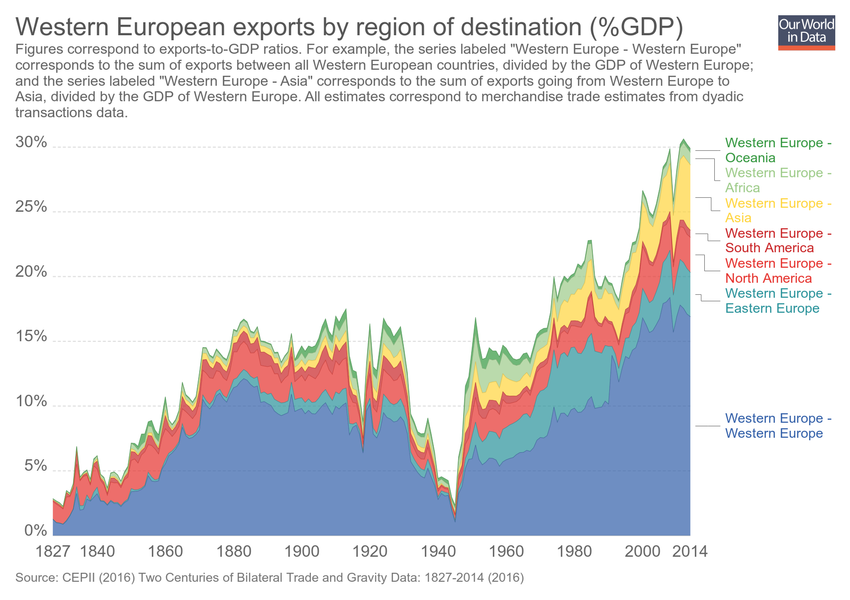
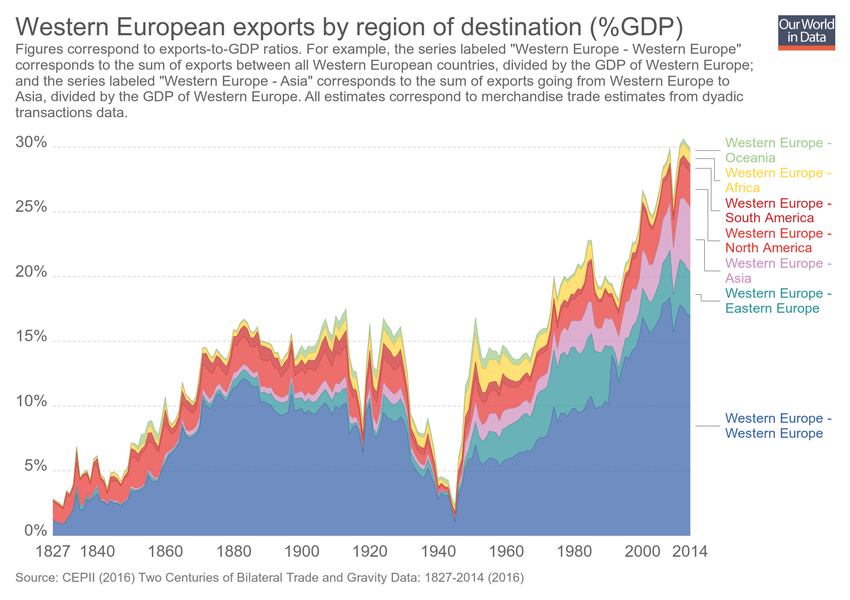
Updating chart exports-from-western-europe-to-other-regions

diff --git a/grapher/exports-from-western-europe-to-other-regions.html b/grapher/exports-from-western-europe-to-other-regions.html
@@ -1,4 +1,4 @@
-<!doctype html><html><head><meta name="viewport" content="width=device-width, initial-scale=1" /><title>Western European exports by region of destination (%GDP) - Our World in Data</title><meta name="description" content="Figures correspond to exports-to-GDP ratios.  For example, the series labeled &quot;Western Europe - Western Europe&quot; corresponds to the sum of exports between all Western European countries, divided by the GDP of Western Europe; and the series labeled &quot;Western Europe - Asia&quot; corresponds to the sum of exports going from Western Europe to Asia, divided by the GDP of Western Europe. All estimates correspond to merchandise trade estimates from dyadic transactions data. " /><link rel="canonical" href="https://ourworldindata.org/grapher/exports-from-western-europe-to-other-regions" /><meta property="fb:app_id" content="1149943818390250" /><meta property="og:url" content="https://ourworldindata.org/grapher/exports-from-western-europe-to-other-regions" /><meta property="og:title" content="Western European exports by region of destination (%GDP)" /><meta property="og:description" content="Figures correspond to exports-to-GDP ratios.  For example, the series labeled &quot;Western Europe - Western Europe&quot; corresponds to the sum of exports between all Western European countries, divided by the GDP of Western Europe; and the series labeled &quot;Western Europe - Asia&quot; corresponds to the sum of exports going from Western Europe to Asia, divided by the GDP of Western Europe. All estimates correspond to merchandise trade estimates from dyadic transactions data. " /><meta property="og:image" content="https://ourworldindata.org/grapher/exports/exports-from-western-europe-to-other-regions.png?v=11" /><meta property="og:image:width" content="850" /><meta property="og:image:height" content="600" /><meta property="og:site_name" content="Our World in Data" /><meta name="twitter:card" content="summary_large_image" /><meta name="twitter:site" content="@OurWorldInData" /><meta name="twitter:creator" content="@OurWorldInData" /><meta name="twitter:title" content="Western European exports by region of destination (%GDP)" /><meta name="twitter:description" content="Figures correspond to exports-to-GDP ratios.  For example, the series labeled &quot;Western Europe - Western Europe&quot; corresponds to the sum of exports between all Western European countries, divided by the GDP of Western Europe; and the series labeled &quot;Western Europe - Asia&quot; corresponds to the sum of exports going from Western Europe to Asia, divided by the GDP of Western Europe. All estimates correspond to merchandise trade estimates from dyadic transactions data. " /><meta name="twitter:image" content="https://ourworldindata.org/grapher/exports/exports-from-western-europe-to-other-regions.png?v=11" /><style>
+<!doctype html><html><head><meta name="viewport" content="width=device-width, initial-scale=1" /><title>Western European exports by region of destination (%GDP) - Our World in Data</title><meta name="description" content="Figures correspond to exports-to-GDP ratios.  For example, the series labeled &quot;Western Europe - Western Europe&quot; corresponds to the sum of exports between all Western European countries, divided by the GDP of Western Europe; and the series labeled &quot;Western Europe - Asia&quot; corresponds to the sum of exports going from Western Europe to Asia, divided by the GDP of Western Europe. All estimates correspond to merchandise trade estimates from dyadic transactions data. " /><link rel="canonical" href="https://ourworldindata.org/grapher/exports-from-western-europe-to-other-regions" /><meta property="fb:app_id" content="1149943818390250" /><meta property="og:url" content="https://ourworldindata.org/grapher/exports-from-western-europe-to-other-regions" /><meta property="og:title" content="Western European exports by region of destination (%GDP)" /><meta property="og:description" content="Figures correspond to exports-to-GDP ratios.  For example, the series labeled &quot;Western Europe - Western Europe&quot; corresponds to the sum of exports between all Western European countries, divided by the GDP of Western Europe; and the series labeled &quot;Western Europe - Asia&quot; corresponds to the sum of exports going from Western Europe to Asia, divided by the GDP of Western Europe. All estimates correspond to merchandise trade estimates from dyadic transactions data. " /><meta property="og:image" content="https://ourworldindata.org/grapher/exports/exports-from-western-europe-to-other-regions.png?v=13" /><meta property="og:image:width" content="850" /><meta property="og:image:height" content="600" /><meta property="og:site_name" content="Our World in Data" /><meta name="twitter:card" content="summary_large_image" /><meta name="twitter:site" content="@OurWorldInData" /><meta name="twitter:creator" content="@OurWorldInData" /><meta name="twitter:title" content="Western European exports by region of destination (%GDP)" /><meta name="twitter:description" content="Figures correspond to exports-to-GDP ratios.  For example, the series labeled &quot;Western Europe - Western Europe&quot; corresponds to the sum of exports between all Western European countries, divided by the GDP of Western Europe; and the series labeled &quot;Western Europe - Asia&quot; corresponds to the sum of exports going from Western Europe to Asia, divided by the GDP of Western Europe. All estimates correspond to merchandise trade estimates from dyadic transactions data. " /><meta name="twitter:image" content="https://ourworldindata.org/grapher/exports/exports-from-western-europe-to-other-regions.png?v=13" /><style>
         html, body {
             height: 100%;
             margin: 0;
@@ -20,8 +20,8 @@
         }
     </style><noscript><style>
                     figure { display: none !important; }
-                </style></noscript><link rel="stylesheet" href="https://ourworldindata.org/grapher/assets/commons.bundle.521782e703f0fe72f108.css" /><link rel="preload" href="/grapher/data/variables/96417+96410+96416+96413+96412+96415+96411+96414.json?v=11" as="fetch" crossorigin /></head><body class="singleChart"><figure data-grapher-src="/grapher/exports-from-western-europe-to-other-regions"></figure><noscript id="fallback"><img src="/grapher/exports/exports-from-western-europe-to-other-regions.svg" /><p>Interactive visualization requires JavaScript</p></noscript><script src="https://cdn.polyfill.io/v2/polyfill.min.js?features=es6,fetch"></script><script src="https://ourworldindata.org/grapher/assets/commons.bundle.521782e703f0fe72f108.js"></script><script src="https://ourworldindata.org/grapher/assets/charts.bundle.521782e703f0fe72f108.js"></script><script>
-        var jsonConfig = {"id":3130,"map":{"projection":"World","colorSchemeLabels":[],"colorSchemeValues":[],"customNumericColors":[],"customCategoryColors":{},"customCategoryLabels":{},"customHiddenCategories":{}},"tab":"chart","slug":"exports-from-western-europe-to-other-regions","type":"StackedArea","title":"Western European exports by region of destination (%GDP)","xAxis":{"scaleType":"linear"},"yAxis":{"min":0,"scaleType":"linear"},"version":11,"subtitle":"Figures correspond to exports-to-GDP ratios.  For example, the series labeled \"Western Europe - Western Europe\" corresponds to the sum of exports between all Western European countries, divided by the GDP of Western Europe; and the series labeled \"Western Europe - Asia\" corresponds to the sum of exports going from Western Europe to Asia, divided by the GDP of Western Europe. All estimates correspond to merchandise trade estimates from dyadic transactions data. ","hasMapTab":false,"stackMode":"absolute","dimensions":[{"display":{"name":" Western Europe"},"property":"y","variableId":96417},{"display":{"name":"Africa"},"property":"y","variableId":96410},{"display":{"name":"South America"},"property":"y","variableId":96416},{"display":{"name":"Eastern Europe"},"property":"y","variableId":96413},{"display":{"name":"Asia"},"property":"y","variableId":96412},{"display":{"name":"Oceania"},"property":"y","variableId":96415},{"display":{"name":"Antarctica"},"property":"y","variableId":96411},{"display":{"name":"North America"},"property":"y","variableId":96414}],"hasChartTab":true,"isPublished":true,"selectedData":[{"index":5,"entityId":476},{"index":1,"entityId":476},{"index":4,"entityId":476},{"index":2,"entityId":476},{"index":7,"entityId":476},{"index":3,"entityId":476},{"index":0,"entityId":476}],"addCountryMode":"disabled","hideTitleAnnotation":true};
+                </style></noscript><link rel="stylesheet" href="https://ourworldindata.org/grapher/assets/commons.bundle.521782e703f0fe72f108.css" /><link rel="preload" href="/grapher/data/variables/96417+96410+96416+96413+96412+96415+96411+96414.json?v=13" as="fetch" crossorigin /></head><body class="singleChart"><figure data-grapher-src="/grapher/exports-from-western-europe-to-other-regions"></figure><noscript id="fallback"><img src="/grapher/exports/exports-from-western-europe-to-other-regions.svg" /><p>Interactive visualization requires JavaScript</p></noscript><script src="https://cdn.polyfill.io/v2/polyfill.min.js?features=es6,fetch"></script><script src="https://ourworldindata.org/grapher/assets/commons.bundle.521782e703f0fe72f108.js"></script><script src="https://ourworldindata.org/grapher/assets/charts.bundle.521782e703f0fe72f108.js"></script><script>
+        var jsonConfig = {"id":3130,"map":{"projection":"World","colorSchemeLabels":[],"colorSchemeValues":[],"customNumericColors":[],"customCategoryColors":{},"customCategoryLabels":{},"customHiddenCategories":{}},"tab":"chart","slug":"exports-from-western-europe-to-other-regions","type":"StackedArea","title":"Western European exports by region of destination (%GDP)","xAxis":{"scaleType":"linear"},"yAxis":{"min":0,"scaleType":"linear"},"version":13,"subtitle":"Figures correspond to exports-to-GDP ratios.  For example, the series labeled \"Western Europe - Western Europe\" corresponds to the sum of exports between all Western European countries, divided by the GDP of Western Europe; and the series labeled \"Western Europe - Asia\" corresponds to the sum of exports going from Western Europe to Asia, divided by the GDP of Western Europe. All estimates correspond to merchandise trade estimates from dyadic transactions data. ","hasMapTab":false,"stackMode":"absolute","dimensions":[{"display":{"name":" Western Europe"},"property":"y","variableId":96417},{"display":{"name":"Africa"},"property":"y","variableId":96410},{"display":{"name":"South America"},"property":"y","variableId":96416},{"display":{"name":"Eastern Europe"},"property":"y","variableId":96413},{"display":{"name":"Asia"},"property":"y","variableId":96412},{"display":{"name":"Oceania"},"property":"y","variableId":96415},{"display":{"name":"Antarctica"},"property":"y","variableId":96411},{"display":{"name":"North America"},"property":"y","variableId":96414}],"hasChartTab":true,"isPublished":true,"selectedData":[{"index":5,"entityId":476},{"index":1,"entityId":476},{"index":2,"entityId":476},{"index":7,"entityId":476},{"color":"#ce8ebd","index":4,"entityId":476},{"index":3,"entityId":476},{"index":0,"entityId":476}],"addCountryMode":"disabled","hideTitleAnnotation":true};
         var figure = document.getElementsByTagName("figure")[0];
         try {
             window.App = {};
